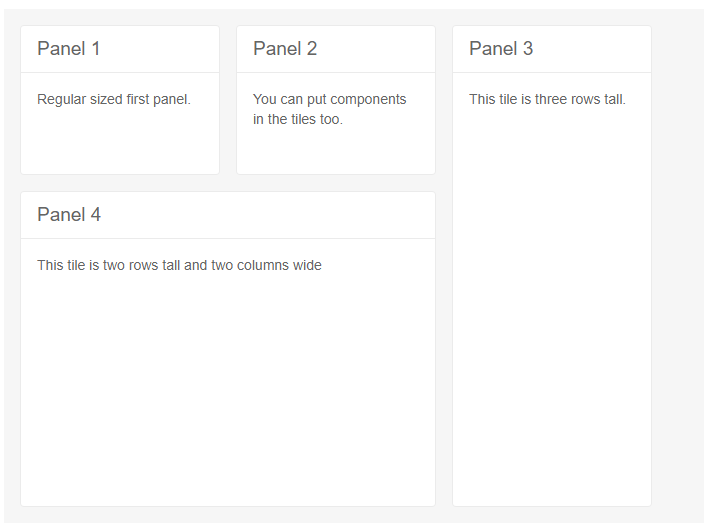
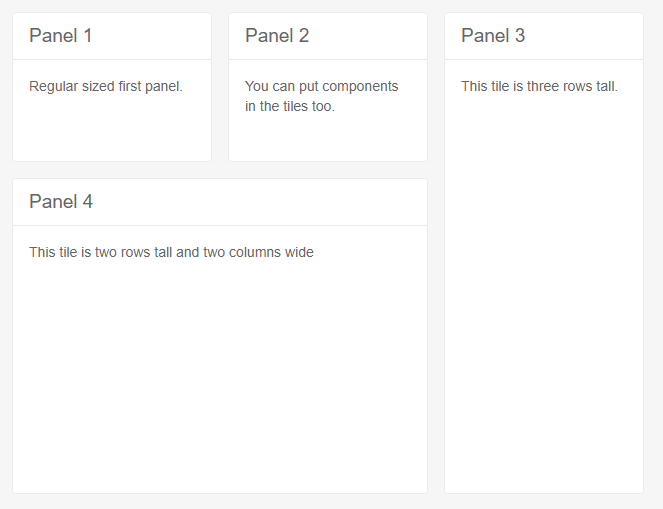
docs(tileLayout): improve explanations on dimensions and settings

diff --git a/components/tilelayout/overview.md b/components/tilelayout/overview.md
@@ -27,7 +27,9 @@ To create a basic dashboard with the TileLayout component:
 
 1. Add the `TelerikTileLayout` tag.
 
-1. Configure the `Width`, `Height`, `ColumnWidth` and `RowHeight` to define the desired dimensions for the layout and the base size for the individual tiles. Read more in the [Appearance Settings](#appearance-settings) section below.
+1. Set the desired number of `Columns` for the layout.
+
+    * Optionally, configure the `Width`, `Height`, `ColumnWidth` and/or `RowHeight` to define the desired dimensions for the layout and the base size for the individual tiles. Read more in the [Appearance Settings](#appearance-settings) section below.
 
 1. Under its `TileLayoutItems` tag, add `TileLayoutItem` instances whose `Content` tag you can populate with the desired [content](#tile-contents).
 
@@ -38,10 +40,9 @@ To create a basic dashboard with the TileLayout component:
 >caption Basic Tile Layout with its core features
 
 ````CSHTML
-<TelerikTileLayout ColumnWidth="200px"
+<TelerikTileLayout Columns="3"
+                   ColumnWidth="200px"
                    RowHeight="150px"
-                   Width="700px"
-                   Columns="3"
                    Resizable="true"
                    Reorderable="true">
     <TileLayoutItems>
@@ -71,12 +72,7 @@ You can use the component reference to get or set its [state]({%slug tilelayout-
 
 ````CSHTML
 <TelerikTileLayout @ref="@TileLayoutRef"
-                   ColumnWidth="200px"
-                   RowHeight="150px"
-                   Width="700px"
-                   Columns="3"
-                   Resizable="true"
-                   Reorderable="true">
+                   Columns="3">
     <TileLayoutItems>
         <TileLayoutItem HeaderText="Panel 1">
             <Content>Regular sized first panel.</Content>
@@ -109,15 +105,23 @@ The main feature that the component exposes are divided into two levels:
 
 ### Main Element
 
-The main element defines the number of `Columns`, the `Width` and `Height` of the layout, as well as the `ColumnWidth` and `RowHeight`. Generally, you should settings that allow the desired number of columns and rows (depending on their settings) to fit in the set width and height.
+The main element defines the number of `Columns`, the `Width` and `Height` of the layout, as well as the `ColumnWidth` and `RowHeight`. 
 
-If the width and height dimensions are insufficient to accommodate that, the CSS rules will reduce the individual row height and/or column width so that the appointed number of columns fit in the available width. 
+The `ColumnWidth` and `RowHeight` define the maximum dimensions for each column and row.
 
-The available height will be distributed between the total number of rows if it is lower than their sum.
+Generally, you should use settings that allow the desired number of columns and rows (depending on their width and height) to fit in the set width and height of the entire component.
 
-`Columns`, `Width` and `Height`  have no default values. `ColumnWidth` and `RowHeight` default to `1fr`.
+You do not, however, have to set `Width` and `Height` - the main measure is the `Columns` and it will suffice to create a layout.
 
-There are two other settings you should take into account as well - the `ColumnSpacing` and `RowSpacing` - they are CSS units that define the gaps between the individual tiles and count towards the total dimensions of the component. They default to `16px`.
+Since the Tile Layout is a block element, its width defaults to `auto` in the browser, and the actual width is distributed evenly between the number of `Columns`. Setting `Height="100%"` can let the component take up its parent dimensions in terms of height as well.
+
+If the width and height dimensions are insufficient to accommodate the defined row height and column width that the current tiles create, the actual row height and/or column width will decrease so that the appointed number of columns fit in the available width and the existing number of rows fit in the available height.
+
+`Columns`, `Width` and `Height`  have no default values.
+
+`ColumnWidth` and `RowHeight` default to `1fr`.
+
+There are two other settings you should take into account if you set explicit dimensions to the main element - the `ColumnSpacing` and `RowSpacing` - they are CSS units that define the gaps between the individual columns and rows and count towards the total dimensions of the component. They default to `16px`.
 
 ### Individual Tiles
 

diff --git a/_contentTemplates/tilelayout/basics.md b/_contentTemplates/tilelayout/basics.md
@@ -1,5 +1,5 @@
 #resizing-reordering-logic
 
-Resizing and reoredering tiles makes them snap to the dimensions of the rows and columns of the main element, and their size determines how they render - they are rendered in the first available slot that accommodates their current size, and then the next tile is rendered in the next available slot. This means that large tiles can leave small gaps that will not be filled in by tiles that come later even if they are sufficiently small to fit in them, and that dragging a large tile into a slot near the beginning where there is no room might not be possible.
+Resizing and reoredering tiles makes them snap to the dimensions of the rows and columns of the main element, and their size determines how they render - they are rendered in the first available slot that accommodates their current size, and then the next tile is rendered in the next available slot. This means that large tiles can leave small gaps that will not be filled in by tiles that do not come immediately after them, even if they are sufficiently small to fit in those gaps, and that dragging a large tile into a slot near the beginning where there is no room might not be possible.
 
 #end

diff --git a/components/tilelayout/events.md b/components/tilelayout/events.md
@@ -24,10 +24,7 @@ The `OnResize` event is fired when any tile is resized. It lets you respond to t
 ````CSHTML
 @* Respond to a tile resizing to resize its contents, if needed *@
 
-<TelerikTileLayout ColumnWidth="200px"
-                   RowHeight="150px"
-                   Width="850px"
-                   Columns="4"
+<TelerikTileLayout Columns="4"
                    Resizable="true"
                    OnResize="@OnResizeHandler">
     <TileLayoutItems>
@@ -89,10 +86,7 @@ The `OnReorder` event fires when tiles have been reordered. You can use it to, f
 ````CSHTML
 @* Handle the OnResized event *@
 
-<TelerikTileLayout ColumnWidth="200px"
-                   RowHeight="150px"
-                   Width="700px"
-                   Columns="3"
+<TelerikTileLayout Columns="3"
                    Reorderable="true"
                    OnReorder="@OnReorderHandler">
     <TileLayoutItems>

diff --git a/components/tilelayout/state.md b/components/tilelayout/state.md
@@ -42,9 +42,6 @@ You can consider saving the current state of the component in events that it exp
 
 <TelerikTileLayout @ref="@TileLayoutInstance"
                    Columns="3"
-                   ColumnWidth="350px"
-                   RowHeight="235px"
-                   Width="900px"
                    Resizable="true"
                    Reorderable="true">
     <TileLayoutItems>
